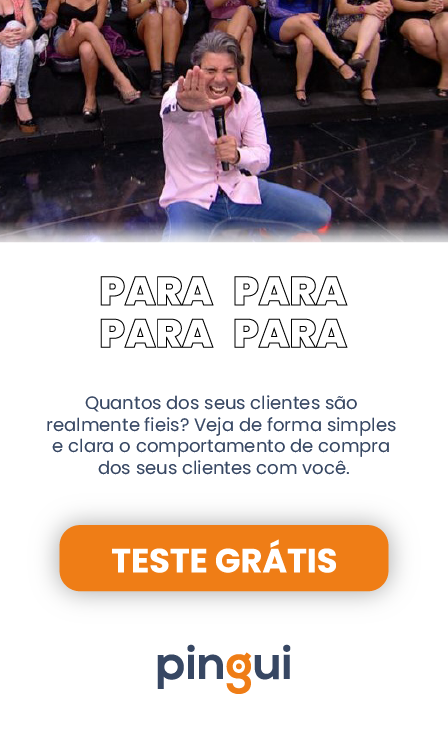
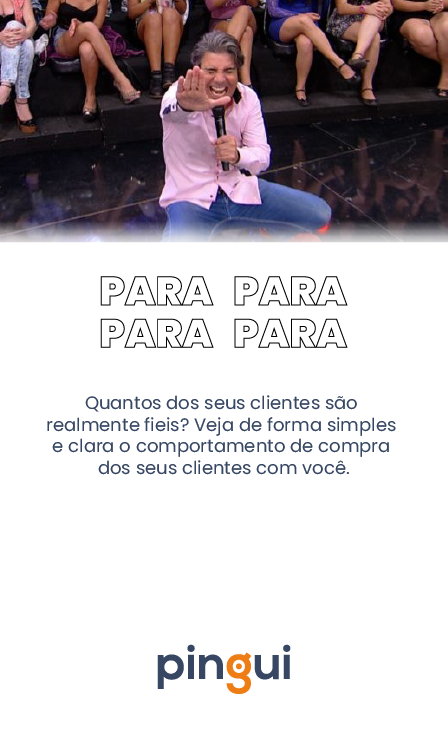
Imagens Testadas

Changed region(s): [[0.0938, 0.6913, 0.9062, 0.8415]]

diff --git a/index.html b/index.html
@@ -124,6 +124,7 @@ j=d.createElement(s),dl=l!='dataLayer'?'&l='+l:'';j.async=true;j.src=
   <div class="modalbanner-box">
     <button id="botaofechar" class="fechar">X</button>
     <img src="images/BannerPingui.png">
+    <a id="testeGratisHeader" style=" position: fixed; transform: translateY(150px) translateX(-7px);padding-left: 30px; padding-right: 30px; font-size: 17px; font-family: 'OpenSans-SemiBold';" target="_blank" href="https://bytemetech.github.io/chatbot-pingui-cliente/" class="btn btn-outline-light my-3 my-sm-0 ml-lg-3">Teste Grátis</a>
   </div>
   </div>
 
@@ -165,7 +166,7 @@ height="0" width="0" style="display:none;visibility:hidden"></iframe></noscript>
         </div>
 
         <div class="container mt-5">    
-            <h1 style=" color: white; font-size: 40px; font-family: 'OpenSans-ExtraBold'" >Seus clientes fidelizados 
+            <h1 style=" color: white; font-size: 40px; font-family: 'OpenSans-ExtraBold'" >Seus clientes fidelizados
                 e trazendo novos clientes!</h1>
             <p style=" padding-bottom: 50px; color: white; font-size: 20px;" class="tagline">Somos o melhor sistema de 
                 fidelidade e indicações do mercado</p>
